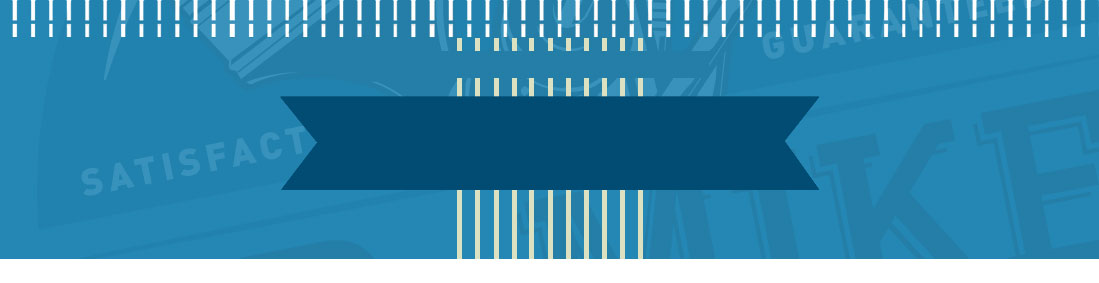
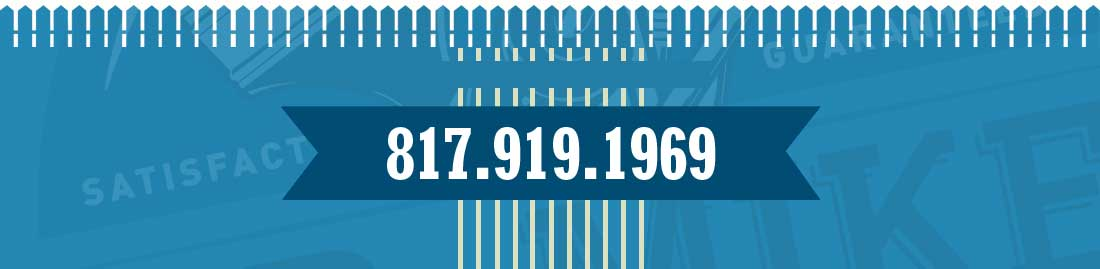
Completed footer and finishing up page

Changed region(s): [[0.0, 0.2677, 1.0, 1.0], [0.0, 0.0, 1.0, 0.2379], [0.1237, 0.5651, 0.1547, 0.5948]]

diff --git a/index.html b/index.html
@@ -2,6 +2,7 @@
 <html>
 <head>
 	<title>Dr. Mike | Healthy Fence</title>
+	<script src="//ajax.googleapis.com/ajax/libs/jquery/1.11.0/jquery.min.js"></script>
 	<link rel="stylesheet" type="text/css" href="css/style.css">
 	<link rel="stylesheet" type="text/css" href="css/responsive.css">
 </head>
@@ -19,7 +20,9 @@
 				<img src="img/top-headline-graphic.png">
 			</div>
 		</div><!--End Header-->
+
 		<div class="main-content-wrapper"><!--Start Main-Content-Wrapper-->
+
 			<div class="side-content"><!--Start Side Content-->
 				<div class="img-wrapper">
 					<img src="img/satisfaction-shield.jpg">
@@ -52,8 +55,10 @@
 			<div class="section push-right testimonials"><!--Start 2nd Section-->
 				<h4>Testimonials</h4>
 				<div class="section-content">
-					<p>&ldquo;Bacon ipsum dolor sit amet t-bone drumstick beef ribs, turducken andouille sirloin short ribs frankfurter pork chop kevin shoulder pig flank turkey jowl. Fatback chicken bresaola pig, shoulder tongue biltong cow. Prosciutto cow landjaeger frankfurter shankle beef ribs. Pancetta doner jowl spare ribs jerky venison tail pastrami fatback filet mignon leberkas pork tri-tip. Strip steak meatloaf bacon, ribeye beef ribs turducken spare ribs porchetta swine.&rdquo; --<em>Adam Richman, Baller</em></p>	
-					<p>&ldquo;Ball tip pastrami sausage cow tail sirloin. Tenderloin pork loin biltong beef venison, kielbasa pork belly brisket. Bresaola corned beef kielbasa, pork chop biltong hamburger meatball salami pastrami. Chuck short ribs t-bone, porchetta flank capicola shankle sirloin ham meatball filet mignon.&rdquo; --<em>Denzel W. Actor</em></p>
+					<p>&ldquo;  Mike was very responsive, timely, professional and detail oriented. From matching the existing stain color, to prepping the fence to clean up, Mike was on it without my prompting. When he was finished, the fence looked wonderful with a rich fully saturated stain. Based on my experience, and the fact that he is a Colleyville resident, I highly recommend Dr. Mike&rsquo;s work.&rdquo; &mdash;<em>M. Adriana Lopez-Hammer, Broughton Estates</em></p>	
+
+
+					<p>&ldquo;Dr. Mike followed through on everything he proposed to do for me for a very reasonable price. This included repairing and replacing sections of my old fence to cleaning and staining it. All aspects of the job were	done in a timely fashion and were done with excellent craftsmanship. Dr.Mike is a true professional that I would strongly recommend to anyone.&rdquo; &mdash;<em>Dan B., Colleyville</em></p>
 				</div>
 				<img src="img/divider-graphic.jpg">
 			</div><!--End 2nd Section-->
@@ -67,13 +72,20 @@
 					<p class="services-list">Located in Colleyville, we are your fencing staining and restoration specialist</p>				
 				</div>
 			</div><!--End 3rd Section-->
+
 			<p class="cursive-contact">Contact Dr. Mike today for a free estimate<p/>				
 		</div><!--End Main-Content-Wrapper-->
-		<div class="footer">
-			<footer>
-				<img src="img/footer-img.jpg">
-			</footer>
-		</div>	
+
+		<div class="footer"><!--Start Footer-->
+			<div class="email-wrapper">
+				<a href="mailto:dr.mike@healthyfence.com">Dr.Mike@HealthyFence.com</a>
+			</div>
+			<img src="img/footer-img.jpg">
+		</div><!--End Footer-->
+
 	</div><!--End Container-->
+	<script type="text/javascript">
+		$('body').fadeIn(2000);
+	</script>
 </body>
 </html>

diff --git a/css/style.css b/css/style.css
@@ -12,6 +12,8 @@ html body{
 	margin: 0;
 	padding: 0;
 }
+
+/*Global Styles*/
 ul li{list-style-type: none;}
 footer{text-align: center;}
 h4{
@@ -20,13 +22,15 @@ h4{
 	font-family: 'arial';
 	font-weight: bold;
 }
-/*General Styles*/
+
 .caps{text-transform: uppercase;}
+
 .container{
 	width: 1100px;
 	margin: 0 auto;
-	border: 1px solid black;
 }
+
+/*Header Styles*/
 .header{
 	width: 1100px;
 	height: 447px;
@@ -66,6 +70,8 @@ h4{
 	text-transform: uppercase;
 	text-align: center;
 }
+
+/*Sidebar Styles*/
 .side-content{
 	float: left;
 	width: 150px;
@@ -81,6 +87,8 @@ h4{
 	padding: 0;
 	line-height: 20px;
 }
+
+
 
 /*Section Styles*/
 .section{
@@ -127,7 +135,7 @@ h4{
 	font-family: 'arial';
 }
 .testimonials p {
-	width: 410px;
+	width: 470px;
 }
 .testimonials h4{
 	margin-right: 50px;
@@ -137,10 +145,36 @@ h4{
 	font-size: 24px;
 	color: #004d72;
 	text-align: center;
+	margin-top: 40px;
+	margin-bottom: 0;
 }
 .section-align{
-	margin-left: 100px;
+	margin-left: 90px;
 }
 .main-content-wrapper{
 	margin-left: 40px;
+}
+
+/*Footer Styles*/
+.email-wrapper{
+	width: 190px;
+	margin: 0 auto;
+	position: relative;
+	top:85px;
+	right: 50px;
+	font-family: 'arial';
+	font-size: 18px;
+	font-weight: bold;
+}
+.email-wrapper a{
+	text-decoration: none;
+	color: #b3ecff;
+	letter-spacing: 3px;
+}
+.email-wrapper a:hover{
+	text-decoration: underline;
+}
+.footer{
+	position: relative;
+	bottom: 20px;
 }
